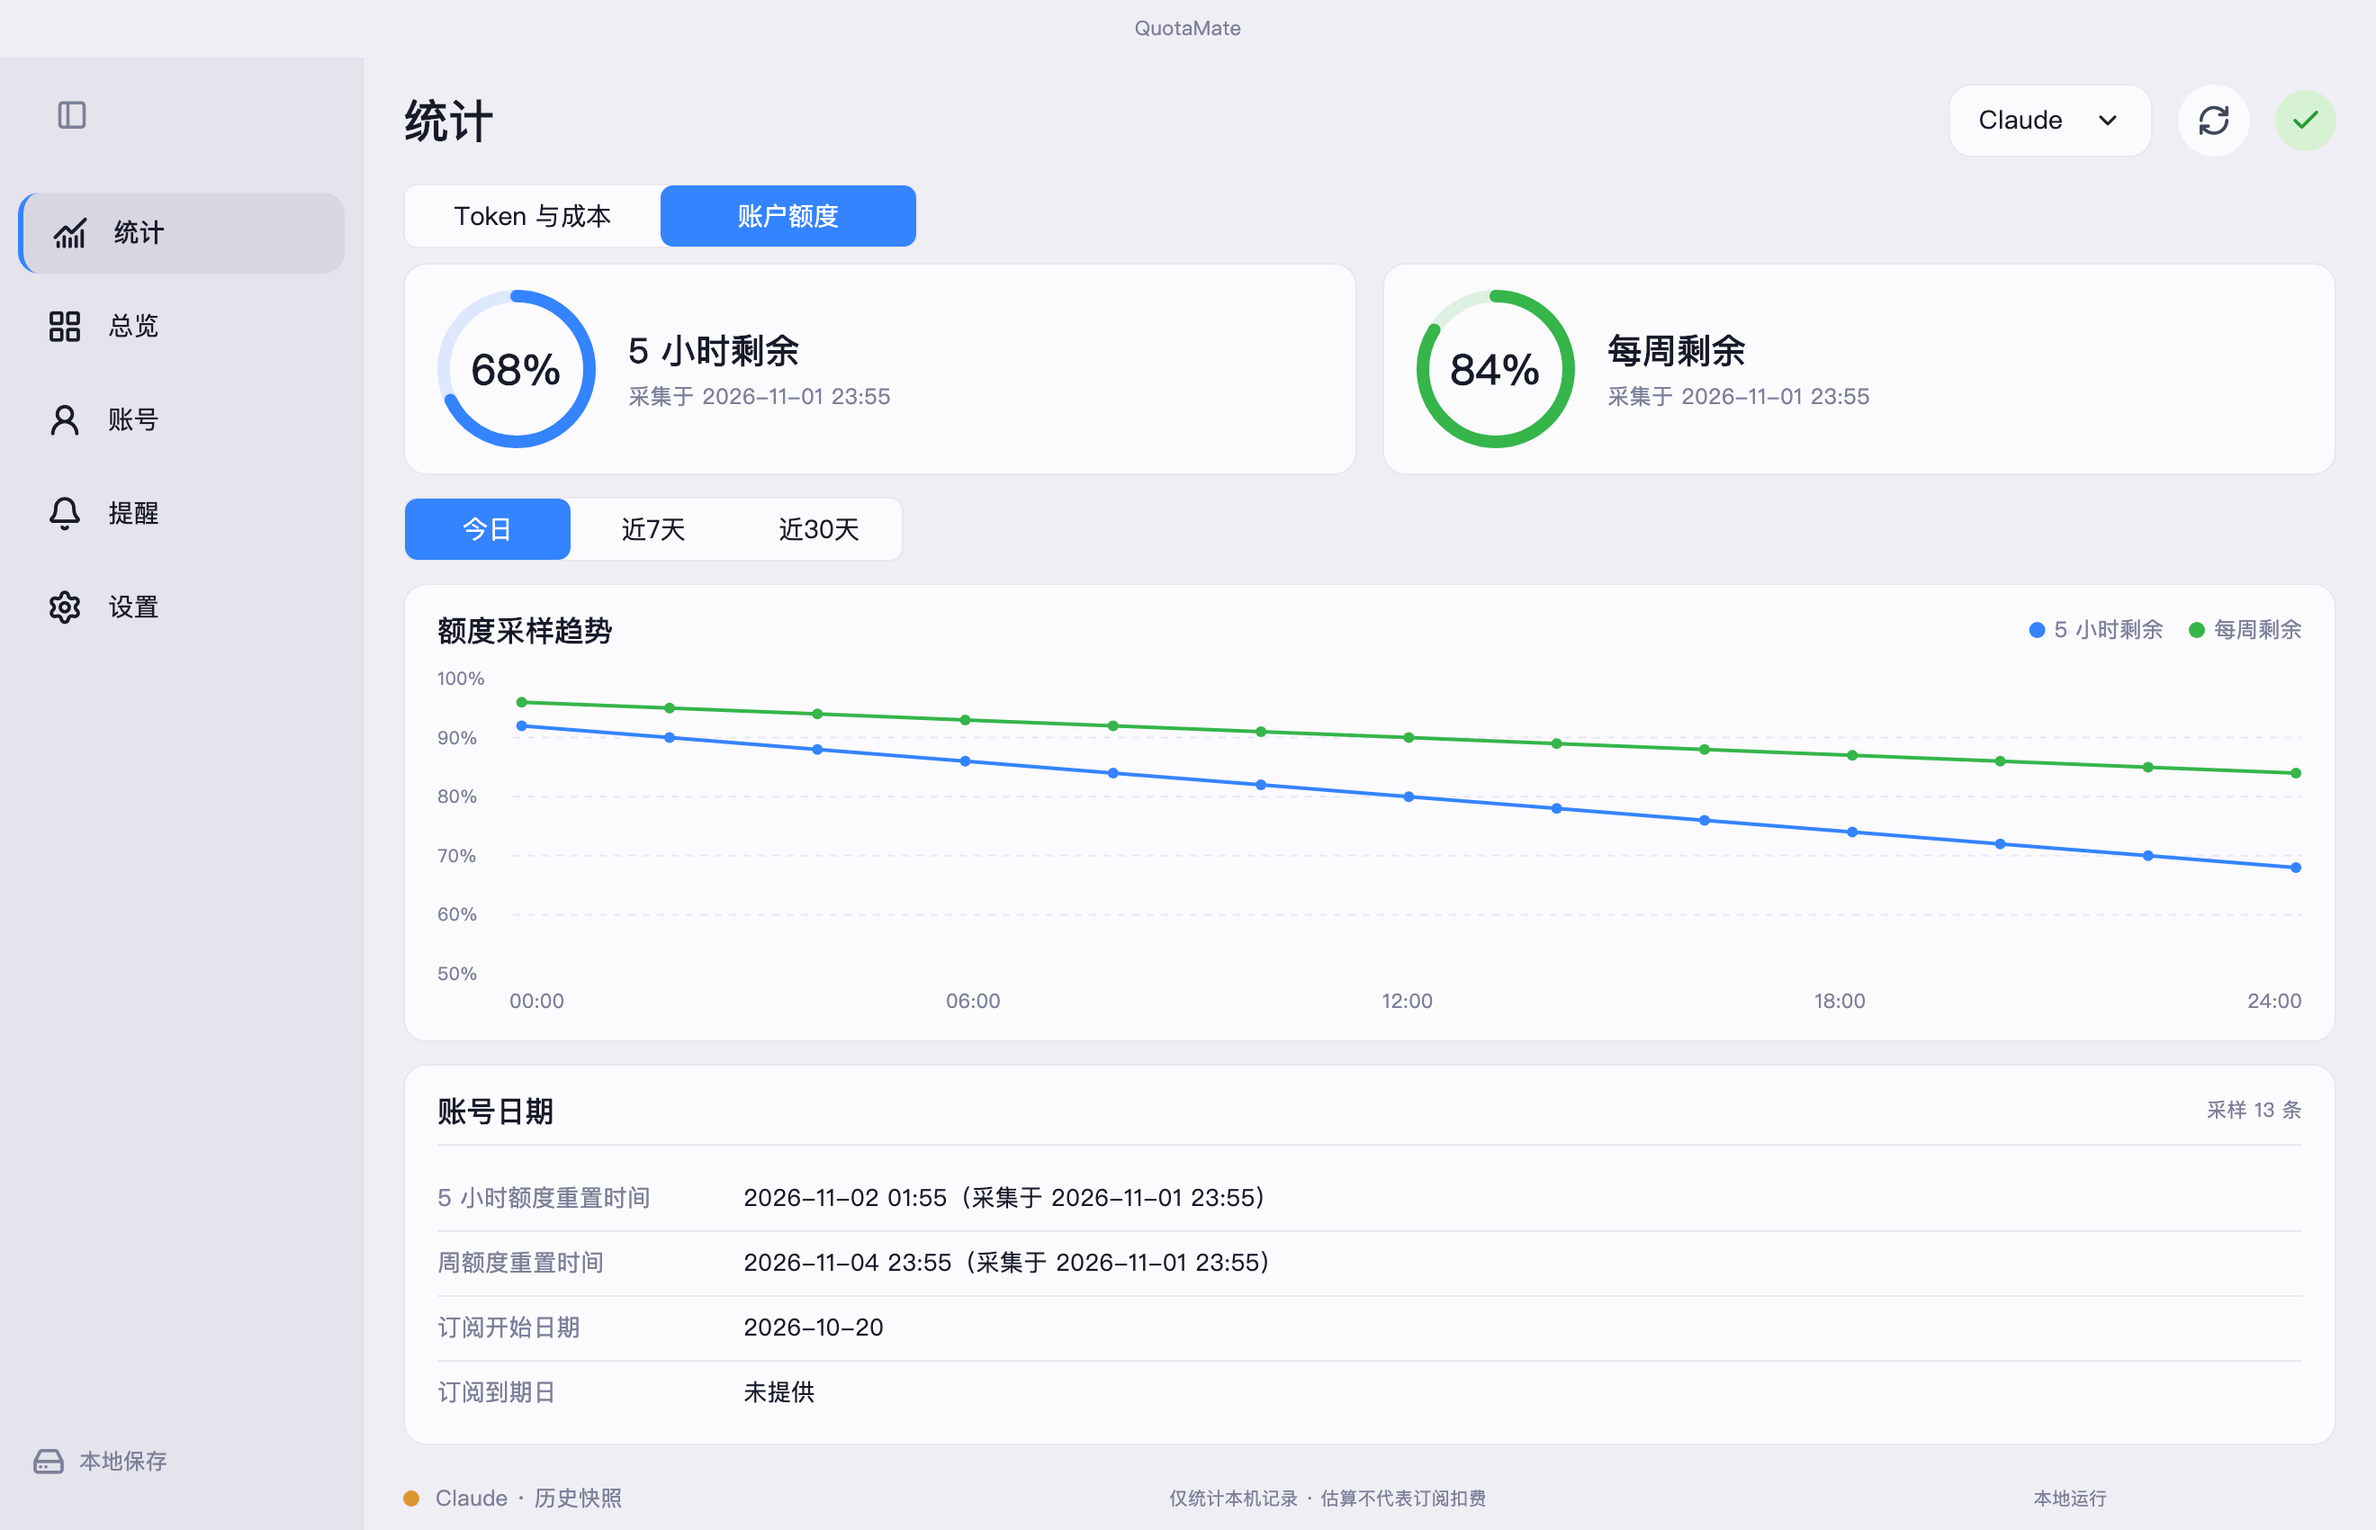
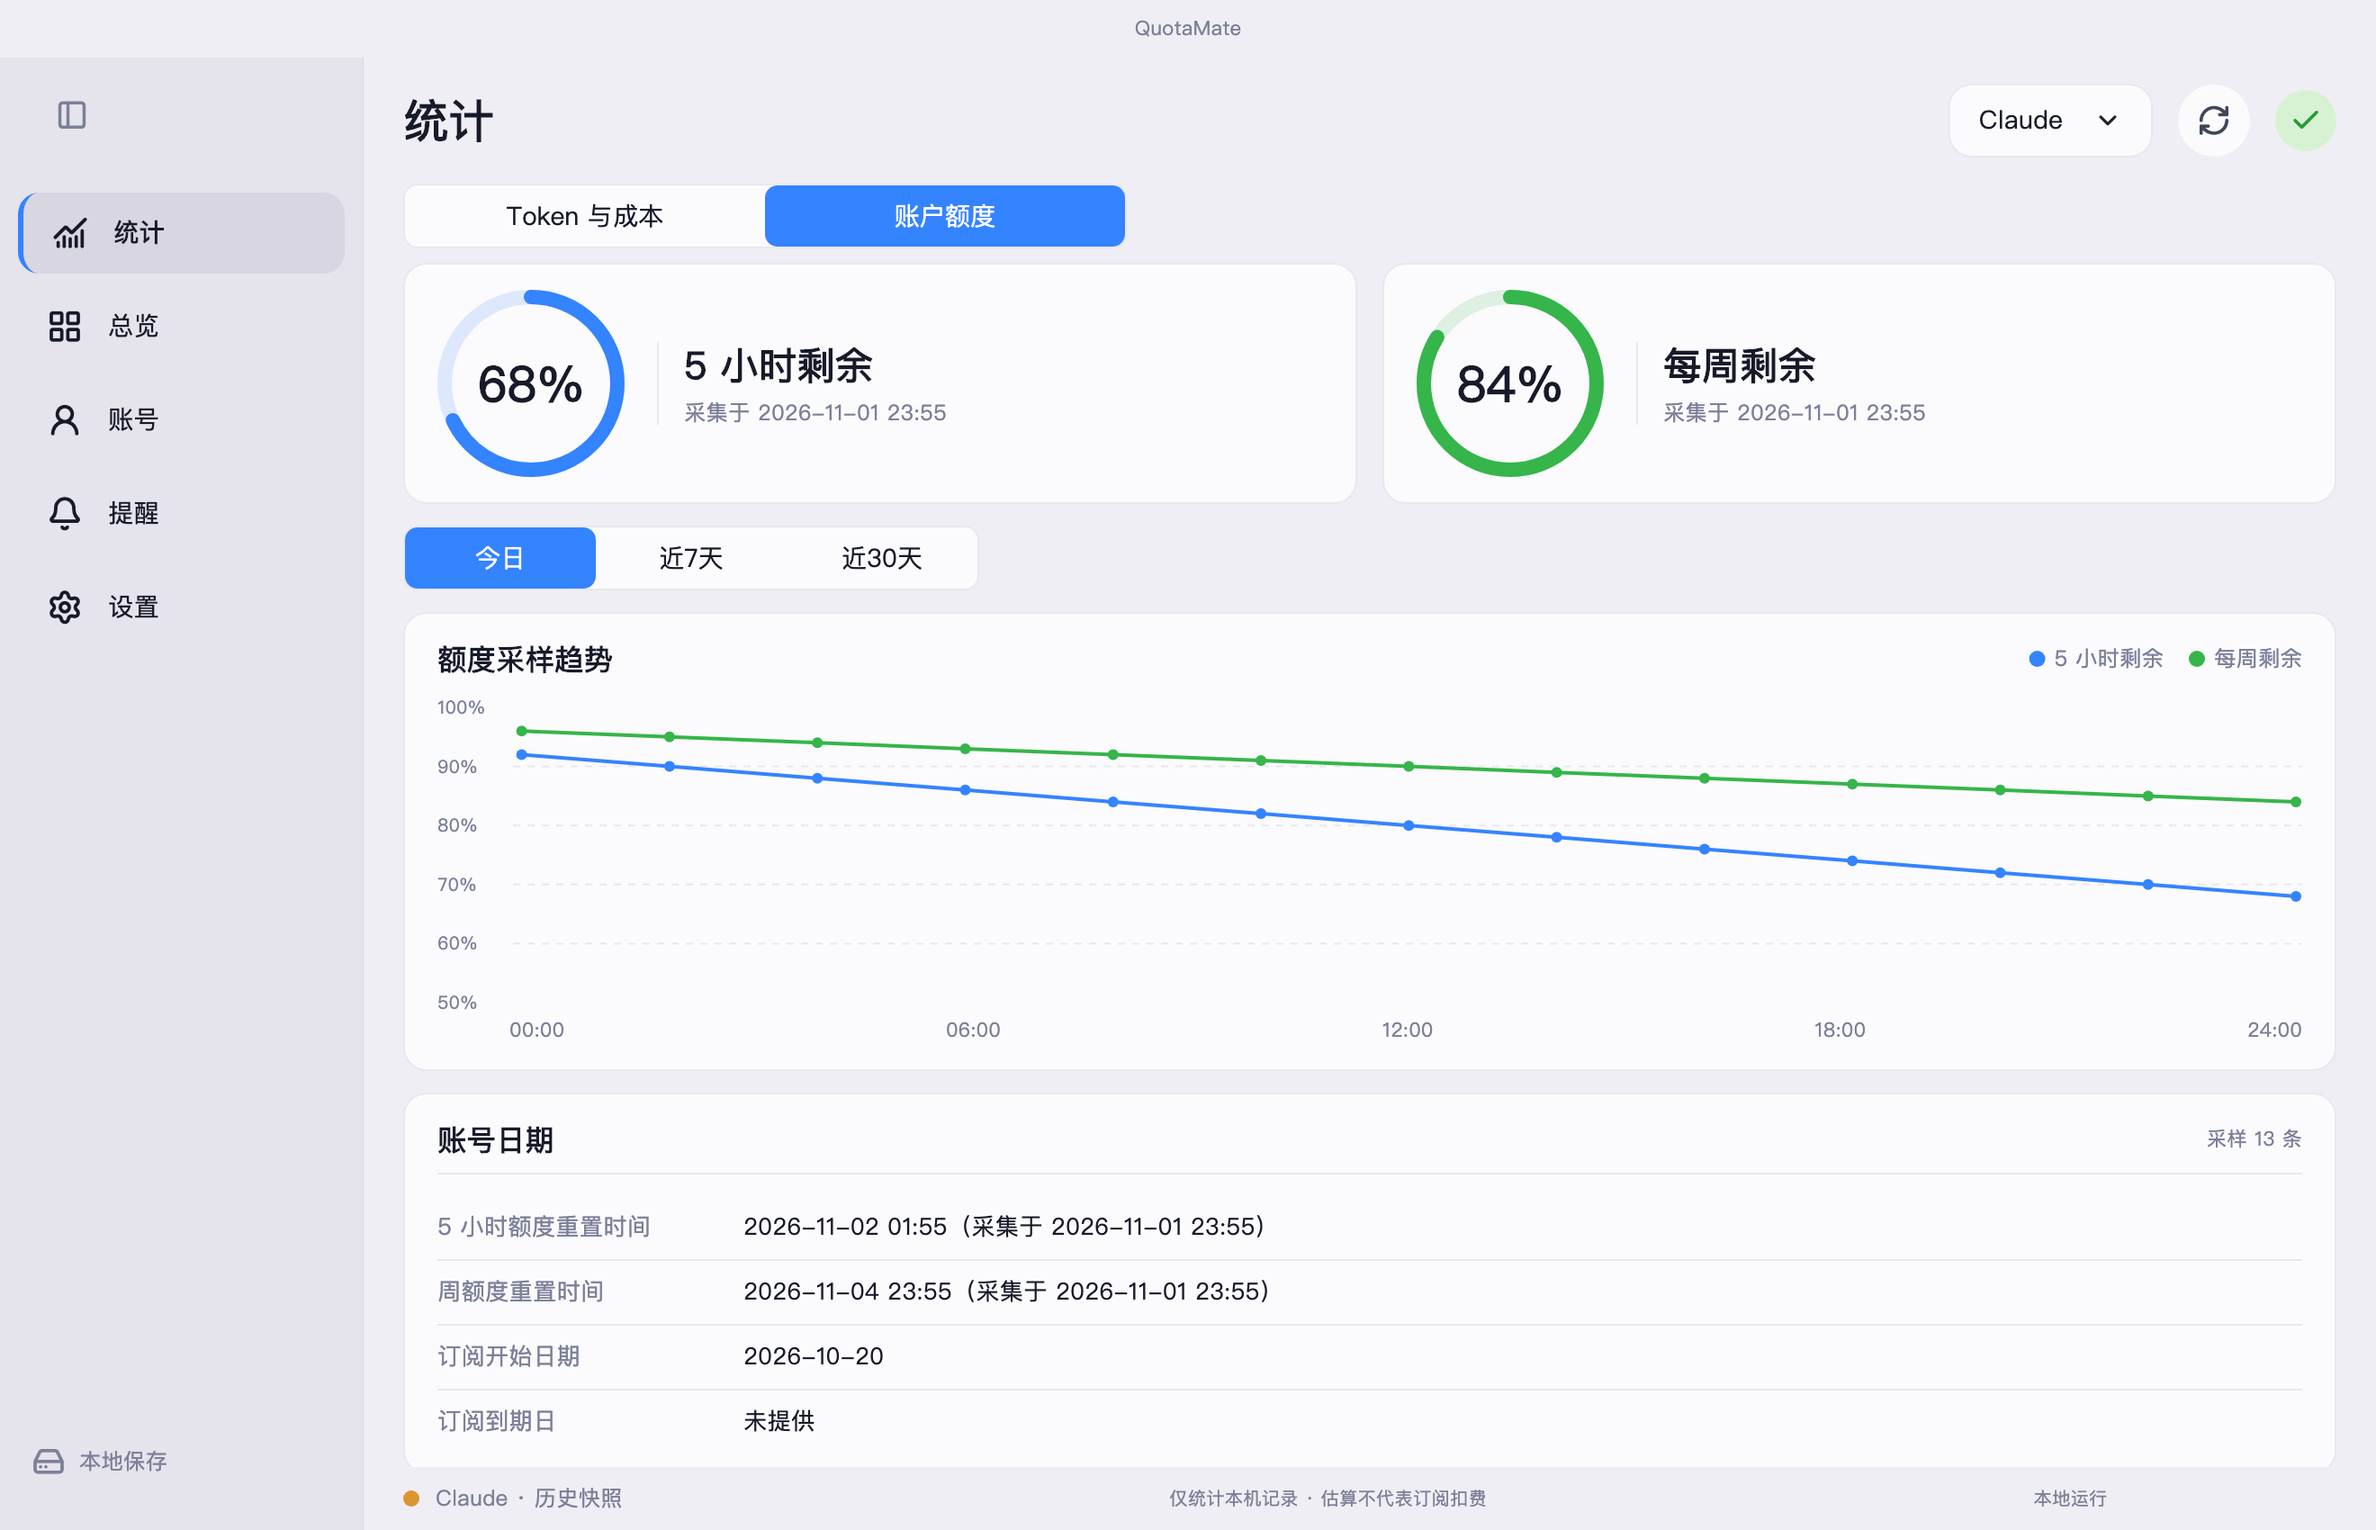
Match gauge scale and segmented control widths to the reference

diff --git a/lib/ui/claude_limits.dart b/lib/ui/claude_limits.dart
@@ -48,14 +48,14 @@ class ClaudeLimits extends StatelessWidget {
           child: Row(
             children: [
               SizedBox.square(
-                dimension: 88,
+                dimension: 104,
                 child: Stack(
                   alignment: Alignment.center,
                   children: [
                     Positioned.fill(
                       child: CircularProgressIndicator(
                         value: window == null ? 0 : (100 - window.used) / 100,
-                        strokeWidth: 7,
+                        strokeWidth: 8,
                         strokeAlign:
                             CircularProgressIndicator.strokeAlignInside,
                         strokeCap: StrokeCap.round,
@@ -65,20 +65,26 @@ class ClaudeLimits extends StatelessWidget {
                     ),
                     label(
                       window == null ? '—' : '${window.remaining}%',
-                      size: 23,
+                      size: 27,
                       weight: FontWeight.w600,
                     ),
                   ],
                 ),
               ),
               const SizedBox(width: 18),
+              Container(
+                width: 1,
+                height: 46,
+                color: themeColor(context, C.line),
+              ),
+              const SizedBox(width: 14),
               Expanded(
                 child: Column(
                   crossAxisAlignment: CrossAxisAlignment.start,
                   children: [
                     label(
                       week ? '每周剩余' : '5 小时剩余',
-                      size: 19,
+                      size: 21,
                       weight: FontWeight.w600,
                       lines: 2,
                     ),
@@ -151,7 +157,7 @@ class ClaudeLimits extends StatelessWidget {
             ['今日', '近7天', '近30天'],
             [1, 7, 30].indexOf(c.days),
             (i) => c.setDays([1, 7, 30][i]),
-            segmentWidth: 92,
+            segmentWidth: 106,
           ),
         ),
         const SizedBox(height: 12),
@@ -356,7 +362,7 @@ class QuotaSegments extends StatelessWidget {
     this.titles,
     this.selected,
     this.onChanged, {
-    this.segmentWidth = 142,
+    this.segmentWidth = 200,
     super.key,
   });
   @override
